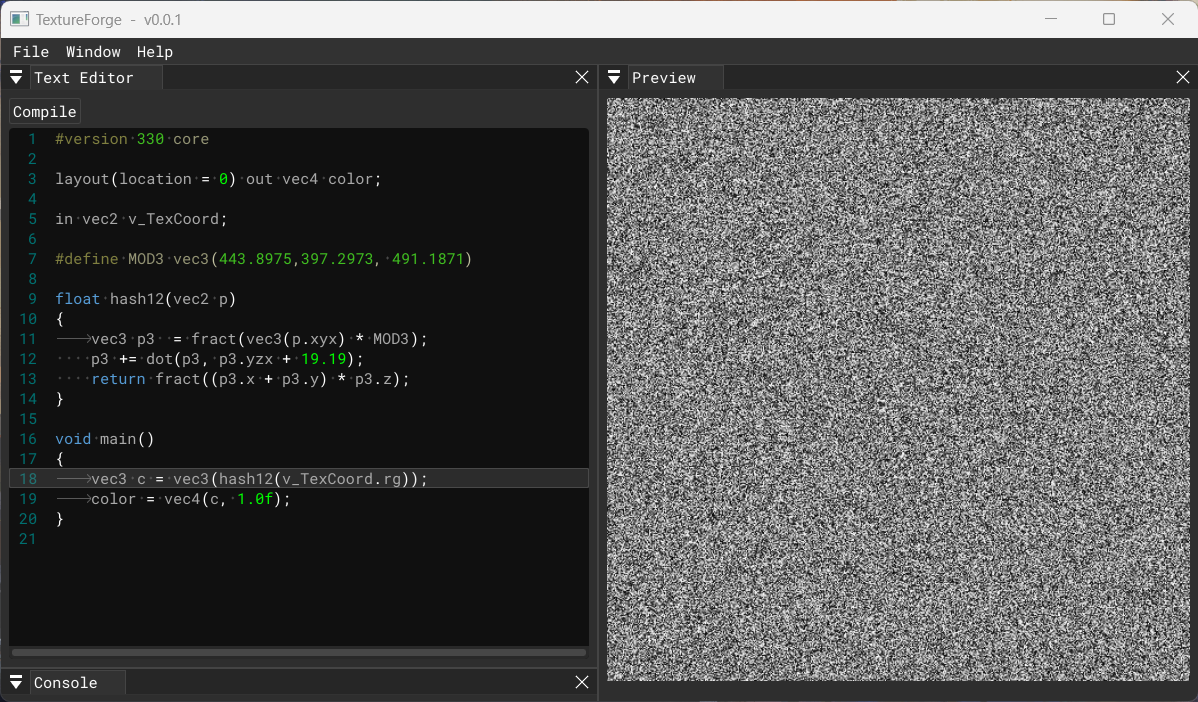
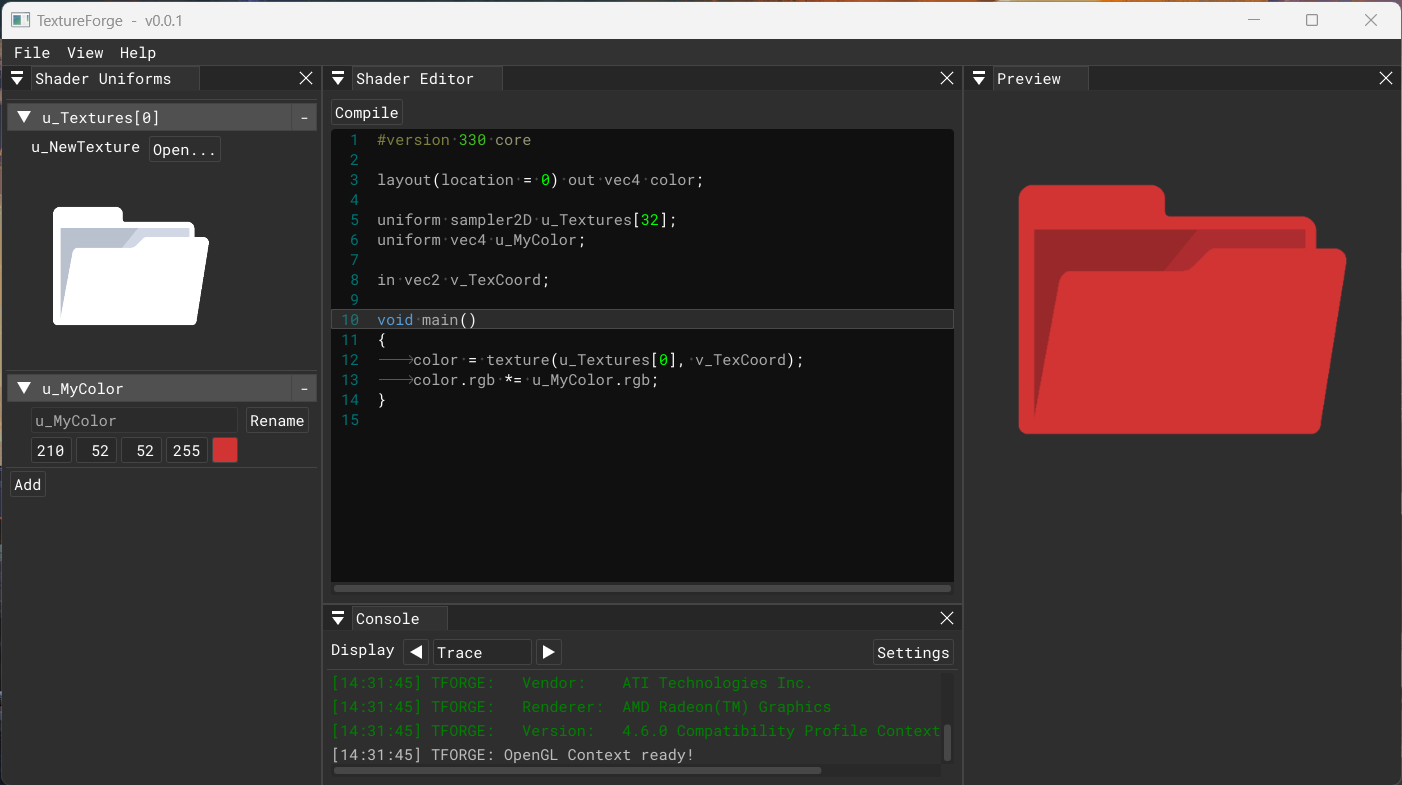
Custom color and vector uniforms

diff --git a/TexWriter/src/Editor/Windows/ShaderUniformsWindow.cpp b/TexWriter/src/Editor/Windows/ShaderUniformsWindow.cpp
@@ -21,8 +21,8 @@ namespace TexWriter {
 
 	ShaderUniformsWindow::ShaderUniformsWindow(EditorLayer* editor) : m_Editor(editor)
 	{
-		
 	}
+
 
 	void ShaderUniformsWindow::BindUniforms(const Ref<Shader>& shader) const
 	{
@@ -37,6 +37,7 @@ namespace TexWriter {
 			binding->Bind(shader);
 		}
 	}
+
 
 
 
@@ -100,6 +101,7 @@ namespace TexWriter {
 				if (ImGui::MenuItem("Texture")) AddBinding<ShaderUniformTextureBinding>("u_NewTexture");
 				if (ImGui::MenuItem("Vector")) AddBinding<ShaderUniformVectorBinding>("u_NewVec4");
 				//if (ImGui::MenuItem("Int")) AddBinding<ShaderUniformTextureBinding>("u_NewInt");
+				if (ImGui::MenuItem("Color")) AddBinding<ShaderUniformColorBinding>("u_NewColor");
 
 				ImGui::EndPopup();
 			}
@@ -107,6 +109,52 @@ namespace TexWriter {
 		ImGui::End();
 	}
 
+
+
+
+
+	void ShaderUniformsWindow::DrawBindingName(ShaderUniformBinding* binding)
+	{
+		char buffer[256];
+		std::string id = fmt::format("##{0}", binding->GetName());
+
+		if (binding->IsEditingName())
+		{
+			strcpy(buffer, binding->GetEditorTempName().c_str());
+
+			if (ImGui::InputText(id.c_str(), buffer, 256))
+			{
+				binding->SetEditorTempName(buffer);
+			}
+
+			ImGui::SameLine();
+
+			if (ImGui::Button("Apply")) // TODO: just "pencil icon"
+			{
+				binding->SetName(binding->GetEditorTempName());
+				binding->SetEditingName(false);
+			}
+		}
+		else 
+		{
+			strcpy(buffer, binding->GetName().c_str());
+			ImGui::BeginDisabled();
+			ImGui::InputText(id.c_str(), buffer, 256, ImGuiInputTextFlags_ReadOnly);
+			ImGui::EndDisabled();
+
+			ImGui::SameLine();
+
+			if (ImGui::Button("Rename")) // TODO: just "pencil icon"
+			{
+				binding->SetEditingName(true);
+			}
+		}
+		/*
+		ImGui::PushStyleColor(ImGuiCol_Text, IM_COL32(0, 255, 0, 255));
+		ImGui::InputText("##text1", txt_green, sizeof(txt_green));
+		ImGui::PopStyleColor();
+		*/
+	}
 
 
 
@@ -136,8 +184,29 @@ namespace TexWriter {
 		}
 	}
 
+
 	void ShaderUniformsWindow::DrawBinding(ShaderUniformVectorBinding* binding)
 	{
-		ImGui::Text(binding->GetName().c_str());
+		DrawBindingName(binding);
+
+		glm::vec4 value = binding->GetValue();
+
+		std::string id = fmt::format("##vec4_{0}", binding->GetName());
+		ImGui::DragFloat4(id.c_str(), (float*)&value);
+
+		binding->SetValue(value);
+	}
+
+
+	void ShaderUniformsWindow::DrawBinding(ShaderUniformColorBinding* binding)
+	{
+		DrawBindingName(binding);
+
+		glm::vec4 color = binding->GetValue();
+
+		std::string id = fmt::format("##color_{0}", binding->GetName());
+		ImGui::ColorEdit4(id.c_str(), (float*)&color);
+
+		binding->SetValue(color);
 	}
 }

diff --git a/TexWriter/src/Editor/Windows/ShaderUniforms/ShaderUniformBinding.h b/TexWriter/src/Editor/Windows/ShaderUniforms/ShaderUniformBinding.h
@@ -25,6 +25,8 @@ namespace TexWriter {
 	public:
 		ShaderUniformBinding(const std::string name, UniformType type);
 
+		inline void SetName(const std::string name) { m_Name = name; }
+
 		inline const std::string GetName() const { return m_Name; }
 		inline UniformType GetType() const { return m_Type; }
 
@@ -34,6 +36,19 @@ namespace TexWriter {
 	protected:
 		std::string m_Name;
 		UniformType m_Type;
+
+
+		// ===== EDITOR DATA =========
+	public:
+		inline std::string GetEditorTempName() const { return m_TempName; }
+		inline void SetEditorTempName(const std::string name) { m_TempName = name; }
+
+		inline bool IsEditingName() const { return m_IsEditingName; }
+		inline void SetEditingName(bool editing) { m_IsEditingName = editing; }
+
+	private:
+		bool m_IsEditingName;
+		std::string m_TempName;
 	};
 
 
@@ -74,6 +89,26 @@ namespace TexWriter {
 
 		void Bind(const Ref<Shader>& shader) const override;
 		void Accept(ShaderUniformsWindow* uniformsWindow) override;
+
+		inline void SetValue(const glm::vec4 value) { m_Value = value; }
+		inline glm::vec4 GetValue() const { return m_Value; }
+
+	private:
+		glm::vec4 m_Value;
+	};
+
+
+	class ShaderUniformColorBinding : public ShaderUniformBinding
+	{
+	public:
+		inline ShaderUniformColorBinding(const std::string name)
+			: ShaderUniformBinding(name, UniformType::Vector4), m_Value(1) {}
+
+		void Bind(const Ref<Shader>& shader) const override;
+		void Accept(ShaderUniformsWindow* uniformsWindow) override;
+
+		inline void SetValue(const glm::vec4 value) { m_Value = value; }
+		inline glm::vec4 GetValue() const { return m_Value; }
 
 	private:
 		glm::vec4 m_Value;

diff --git a/TexWriter/src/Editor/Windows/ShaderUniforms/ShaderUniformBinding.cpp b/TexWriter/src/Editor/Windows/ShaderUniforms/ShaderUniformBinding.cpp
@@ -7,7 +7,8 @@
 namespace TexWriter {
 
 	ShaderUniformBinding::ShaderUniformBinding(const std::string name, UniformType type) 
-		: m_Name(name), m_Type(type)
+		: m_Name(name), m_Type(type),
+		  m_TempName(name), m_IsEditingName(false)
 	{
 	}
 
@@ -33,6 +34,16 @@ namespace TexWriter {
 		shader->SetFloat4(m_Name, m_Value);
 	}
 	void ShaderUniformVectorBinding::Accept(ShaderUniformsWindow* uniformsWindow)
+	{
+		uniformsWindow->DrawBinding(this);
+	}
+
+
+	void ShaderUniformColorBinding::Bind(const Ref<Shader>& shader) const
+	{
+		shader->SetFloat4(m_Name, m_Value);
+	}
+	void ShaderUniformColorBinding::Accept(ShaderUniformsWindow* uniformsWindow)
 	{
 		uniformsWindow->DrawBinding(this);
 	}

diff --git a/TexWriter/src/Editor/Windows/ShaderUniformsWindow.h b/TexWriter/src/Editor/Windows/ShaderUniformsWindow.h
@@ -9,6 +9,7 @@ namespace TexWriter {
 
 	class EditorLayer;
 
+
 	class ShaderUniformsWindow
 	{
 	public:
@@ -26,6 +27,10 @@ namespace TexWriter {
 	public:
 		void DrawBinding(ShaderUniformTextureBinding* binding);
 		void DrawBinding(ShaderUniformVectorBinding* binding);
+		void DrawBinding(ShaderUniformColorBinding* binding);
+
+	private:
+		void DrawBindingName(ShaderUniformBinding* binding);
 
 
 	private:

diff --git a/README.md b/README.md
@@ -39,7 +39,7 @@ The features that TexWriter provides, ordered by implementation priority, list a
 - [x] Shader compiler
 - [x] Export image asset
 - [x] Include input image files
-- [ ] Define custom uniform variables
+- [x] Define custom uniform variables
 - [ ] Editor feedback on shader compile errors
 - [ ] Save and load TexWriter projects
 - [ ] Include OpenGL files
